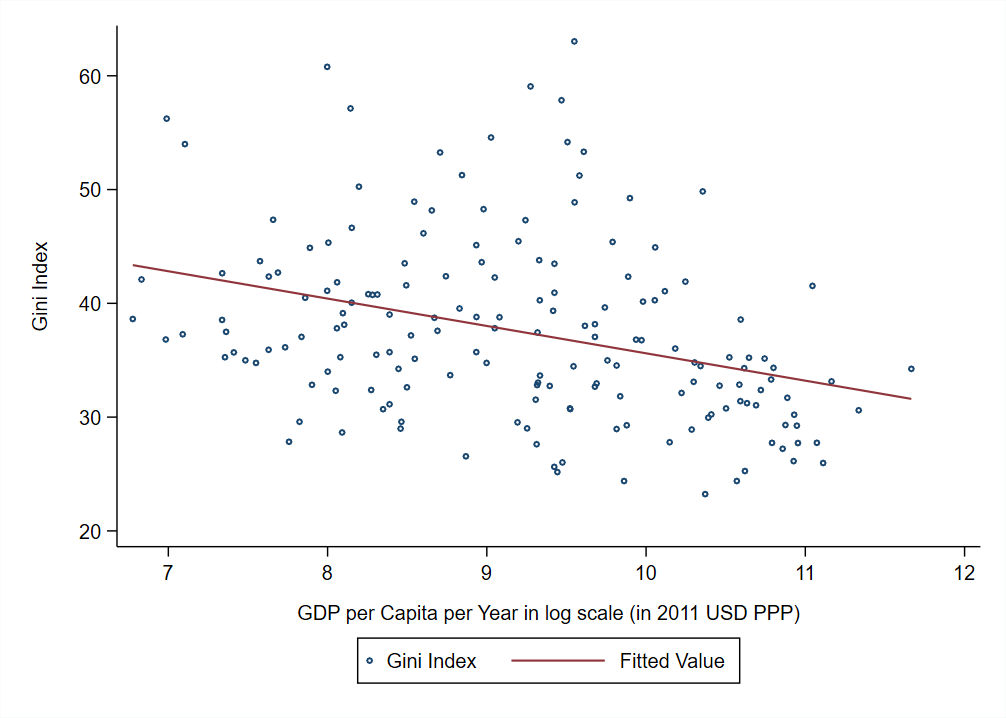
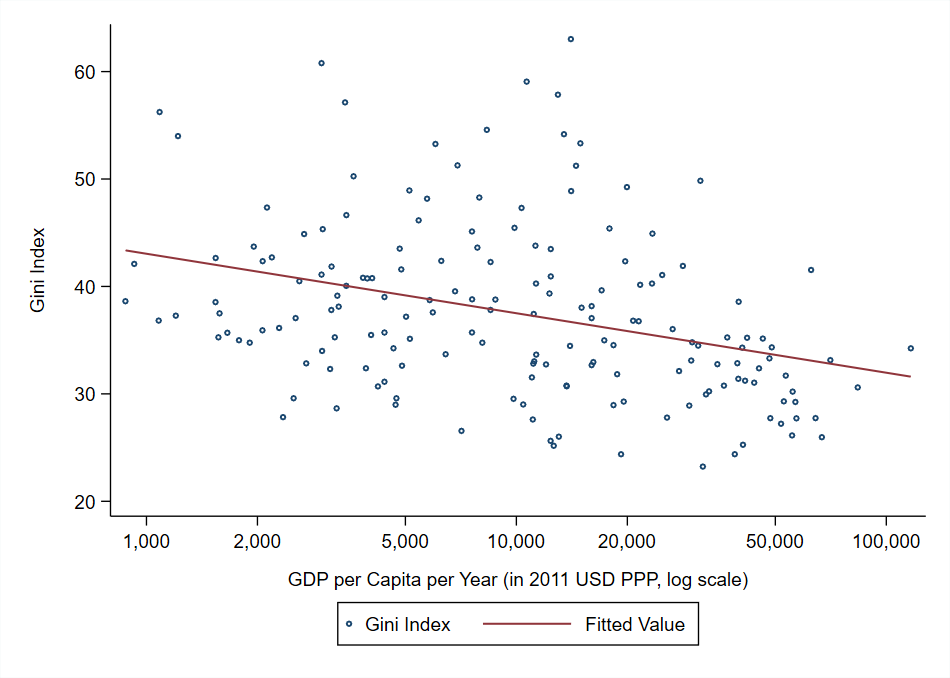
Daniel's suggestions are implemented

diff --git a/docs/vis.md b/docs/vis.md
@@ -119,6 +119,9 @@ alt="LAC" width="550" height="500" />
 
 ```stata
  pip, country(chl gha tgo) year(all)  clear
+ keep if (country_code == "CHL" & survey_comparability == 1) | ///
+ (country_code == "GHA" & survey_comparability == 1) | ///
+ (country_code == "TGO" & survey_comparability == 0) 
  reshape long decile, i(country_code welfare_time) j(dec)
  egen panelid = group(country_code dec)
  replace welfare_time = int(welfare_time)
@@ -135,7 +138,7 @@ alt="LAC" width="550" height="500" />
  		(sc g dec if welfare_time == 2015 & country_code == "TGO", c(l)),   ///
  		yti("Annual growth in decile average income (%)" " ",      ///
  		size(small))  xlabel(0(10)100,labs(small))                 ///
- 		xtitle("Decile group", size(small)) graphregion(c(white))  ///
+ 		xtitle("Decile group", size(small)) graphregion(c(white)) ///
  		legend(order(1 "Chile (2011-2017)"                      ///
  		2 "Ghana(1998-2005)" 3 "Togo (2011-2015)")              ///
  		si(vsmall) row(1)) scheme(s2color)
@@ -183,12 +186,15 @@ drop if gini == -1
 merge m:1 country_code year using `PerCapitaGDP', keep(match)
 replace gini = gini * 100
 drop if ny_gdp_pcap_pp_kd == .
-replace ny_gdp_pcap_pp_kd = log(ny_gdp_pcap_pp_kd)
-twoway (scatter gini ny_gdp_pcap_pp_kd, mfcolor(%0) ///
-msize(vsmall)) (lfit gini ny_gdp_pcap_pp_kd), ///
+
+gen loggdp = log10(ny_gdp_pcap_pp_kd)
+
+twoway (scatter gini loggdp, mfcolor(%0) ///
+msize(vsmall)) (lfit gini loggdp), ///
 ylabel(, format(%2.0f)) ///
 ytitle("Gini Index" " ", size(small))  ///
-xtitle(" " "GDP per Capita per Year in log scale (in 2011 USD PPP)", size(small))  ///
+xtitle(" " "GDP per Capita per Year (in 2011 USD PPP, log scale)", size(small))  ///
+xlab(3 "1,000" 3.3 "2,000" 3.7 "5,000" 4 "10,000" 4.3 "20,000" 4.7 "50,000" 5 "100,000") ///
 graphregion(c(white)) ysize(5) xsize(7)  ///
 ylabel(,labs(small) nogrid angle(verticle)) xlabel(,labs(small)) ///
 legend(order(1 "Gini Index" 2 "Fitted Value") si(small)) scheme(s2color)
